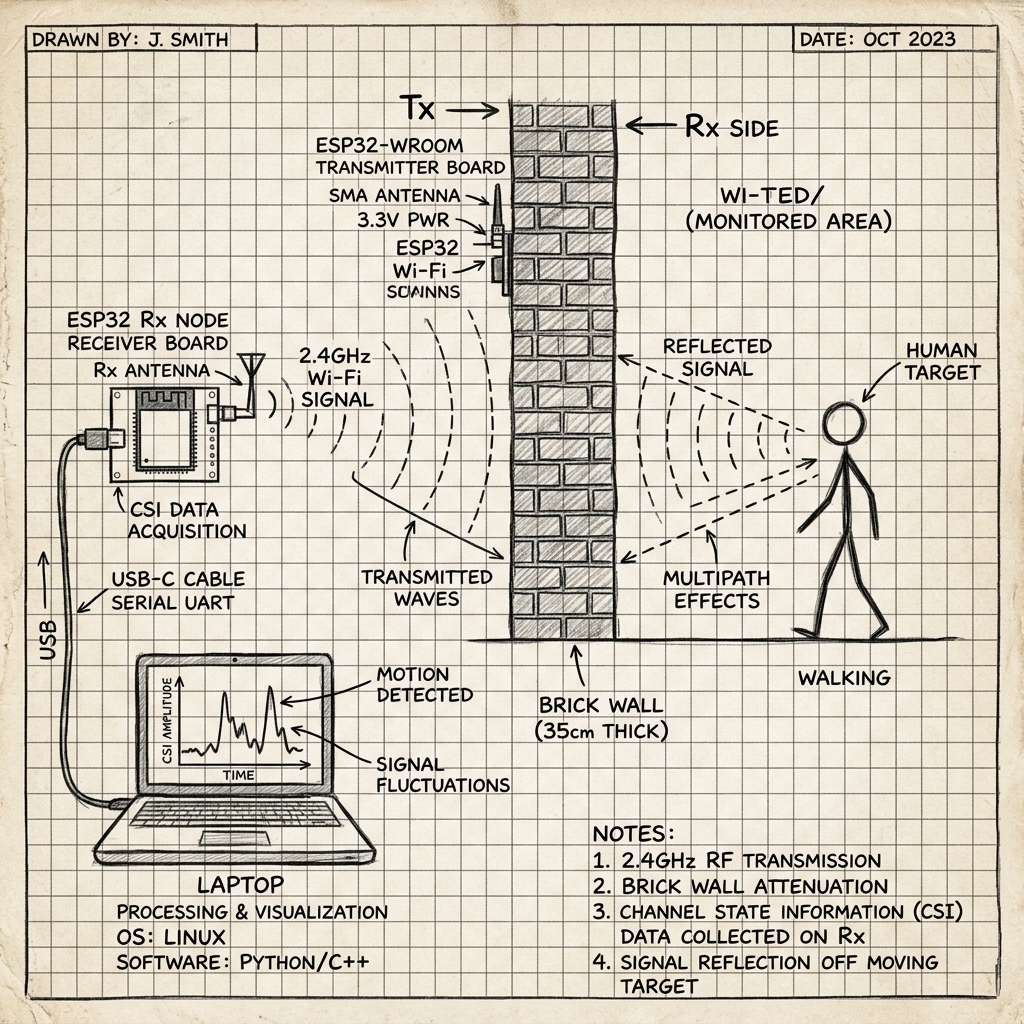
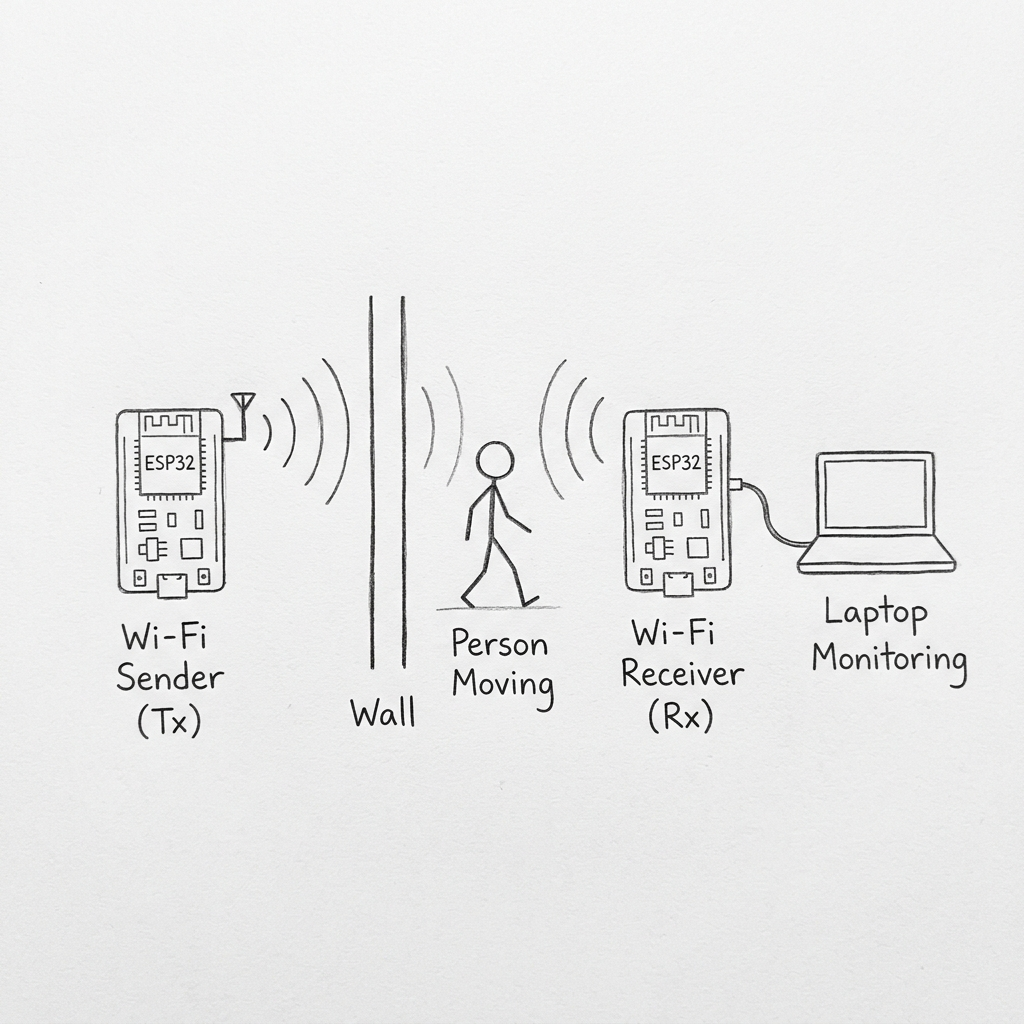
docs: simplify diagrams to clean hand-drawn sketches with simple text explanations

diff --git a/docs/architecture.md b/docs/architecture.md
@@ -1,55 +1,29 @@
-# System Architecture: Through-Wall Wi-Fi Sensing
+# How It Works: Simple Through-Wall Wi-Fi Motion Sensing
 
-## Hardware & Signal Flow Overview
+## 1. Setup Overview
 
 ![Hardware Setup](images/hardware_setup.png)
 
-## Signal Flow Diagram
+### Quick Explanation:
+1. **Transmitter (ESP32 Tx):** Sends continuous Wi-Fi radio signals that pass through walls.
+2. **Obstacle / Movement Area:** In an empty room, the Wi-Fi waves travel cleanly. When a person walks behind the wall, their body reflects and disrupts the Wi-Fi waves.
+3. **Receiver (ESP32 Rx):** Measures the incoming Wi-Fi signal strength and sends the data to a laptop via USB.
 
-```
-[ESP32 Tx (Access Point)] 
-       │
-       │ Wi-Fi 2.4 GHz OFDM Packets (Beacons @ 50 Hz)
-       ▼
- ┌──────────┐
- │  WALL    │  (Radio Waves Penetrate Drywall / Brick)
- └──────────┘
-       │
-       ▼
- [Human Body Reflection & Scattering] ──> Doppler Shifts & Subcarrier Attenuation
-       │
-       ▼
-[ESP32 Rx (Station)] ──> Extracts `wifi_csi_info_t` Matrix
-       │
-       │ USB Serial (115200 Baud)
-       ▼
-[Python Processing Host]
-  ├── 1. `serial_collector.py` (Stream Reader)
-  ├── 2. `preprocess.py` (Butterworth Filter & PCA Noise Reduction)
-  ├── 3. `real_time_plotter.py` (Live Spectrogram & Waveform Visualizer)
-  └── 4. `train_classifier.py` (Random Forest / SVM Presence Classifier)
-```
+---
 
-## Key Mathematics & Mathematical Principles
+## 2. Signal Comparison
 
-### 1. Channel State Information (CSI) Representation
-Wi-Fi OFDM splits a radio channel into multiple subcarriers (typically 52 or 64 sub-frequencies). For each subcarrier \( i \), the CSI model is:
+![Signal Comparison](images/csi_visualization.png)
 
-\[
-Y_i = H_i \cdot X_i + N_i
-\]
+* **Empty Room (No Motion):** Wi-Fi signal stays smooth and steady.
+* **Person Moving Behind Wall:** Wi-Fi signal fluctuates, creating noticeable wave ripples.
 
-Where:
-* \( X_i \) is the transmitted signal.
-* \( Y_i \) is the received signal.
-* \( N_i \) is Gaussian noise.
-* \( H_i \) is the **Channel Frequency Response (CFR)**:
+---
 
-\[
-H_i = |H_i| e^{j \angle H_i}
-\]
+## 3. How Motion is Detected (3 Simple Steps)
 
-Where \( |H_i| \) is the **Amplitude** and \( \angle H_i \) is the **Phase**.
+![How It Works Flowchart](images/motion_detection_demo.png)
 
-### 2. Static Clutter Removal (Butterworth High-Pass Filter)
-Walls and furniture contribute static reflections that create a DC offset in \( |H_i| \). Applying a 4th-order Butterworth bandpass filter (0.2 Hz – 10 Hz) removes static wall clutter while retaining dynamic human motion frequencies.
+1. **Send Signals:** ESP32 transmitter sends Wi-Fi packets continuously.
+2. **Catch Signal Changes:** Receiver logs how the Wi-Fi waves bend and bounce off a moving body.
+3. **Trigger Alert:** Python script filters out stationary objects (walls/furniture) and detects motion in real time!

diff --git a/README.md b/README.md
@@ -4,22 +4,22 @@ An open-source hardware and software framework for detecting human presence and 
 
 ---
 
-## Overview
+## How It Works (In Simple Terms)
 
-Traditional through-wall motion detection relies on specialized mmWave radar or thermal imaging systems. This project utilizes standard 2.4 GHz / 5 GHz Wi-Fi radio signals transmitted by low-cost microcontrollers (ESP32).
+Wi-Fi signals can pass right through solid walls. When a room is empty, the Wi-Fi signal stays smooth and steady. But when a person walks behind the wall, their body bounces and disrupts the Wi-Fi radio waves!
 
-As Wi-Fi signals propagate through obstacles, moving human bodies reflect and scatter subcarrier radio waves. By capturing CSI matrices (Amplitude and Phase per OFDM subcarrier), filtering static environmental clutter, and extracting micro-Doppler signals, the system classifies human presence and motion behind walls in real time.
+By analyzing these signal changes using cheap ESP32 microcontrollers, our system detects human presence and movement behind walls in real time.
 
 ---
 
-## Demo & Visualizations
+## Simple Setup & Diagrams
 
-| Hardware Setup & Radio Propagation | Real-Time CSI Signal Visualization |
+| 1. Hardware Setup Across Wall | 2. Wi-Fi Signal Change (Empty vs Motion) |
 | :---: | :---: |
-| ![Hardware Setup](docs/images/hardware_setup.png) | ![CSI Signal Visualization](docs/images/csi_visualization.png) |
+| ![Hardware Setup Sketch](docs/images/hardware_setup.png) | ![Signal Change Sketch](docs/images/csi_visualization.png) |
 
-### Live Through-Wall Motion Detection Dashboard
-![Motion Detection Dashboard](docs/images/motion_detection_demo.png)
+### 3. Simple 3-Step Detection Flowchart
+![Simple 3-Step Flowchart Sketch](docs/images/motion_detection_demo.png)
 
 ---
 
@@ -99,13 +99,13 @@ python python/train_classifier.py --empty datasets/empty_room.csv --motion datas
 
 ---
 
-## Signal Processing Pipeline
+## How the Software Detects Motion
 
-1. **Packet Capture:** Extracts OFDM subcarrier amplitude and phase matrices.
-2. **Phase Sanitization:** Eliminates phase linear drift caused by clock desynchronization.
-3. **Static Clutter Filtering:** Applies a 4th-order Butterworth bandpass filter (0.2 Hz – 10 Hz) to remove static reflections.
-4. **Dimensionality Reduction:** Applies Principal Component Analysis (PCA) across subcarriers.
-5. **Classification:** Computes statistical feature vectors for Random Forest / SVM evaluation.
+1. **Catch Wi-Fi Waves:** ESP32 captures incoming Wi-Fi signal strength values.
+2. **Remove Static Clutter:** Filters out still objects like walls and furniture.
+3. **Isolate Movement:** Focuses only on live changes caused by human body movement.
+4. **Train Model:** Machine learning compares normal empty room signals vs motion signals.
+5. **Real-time Alert:** Instantly alerts when someone walks behind the wall!
 
 ---
 
